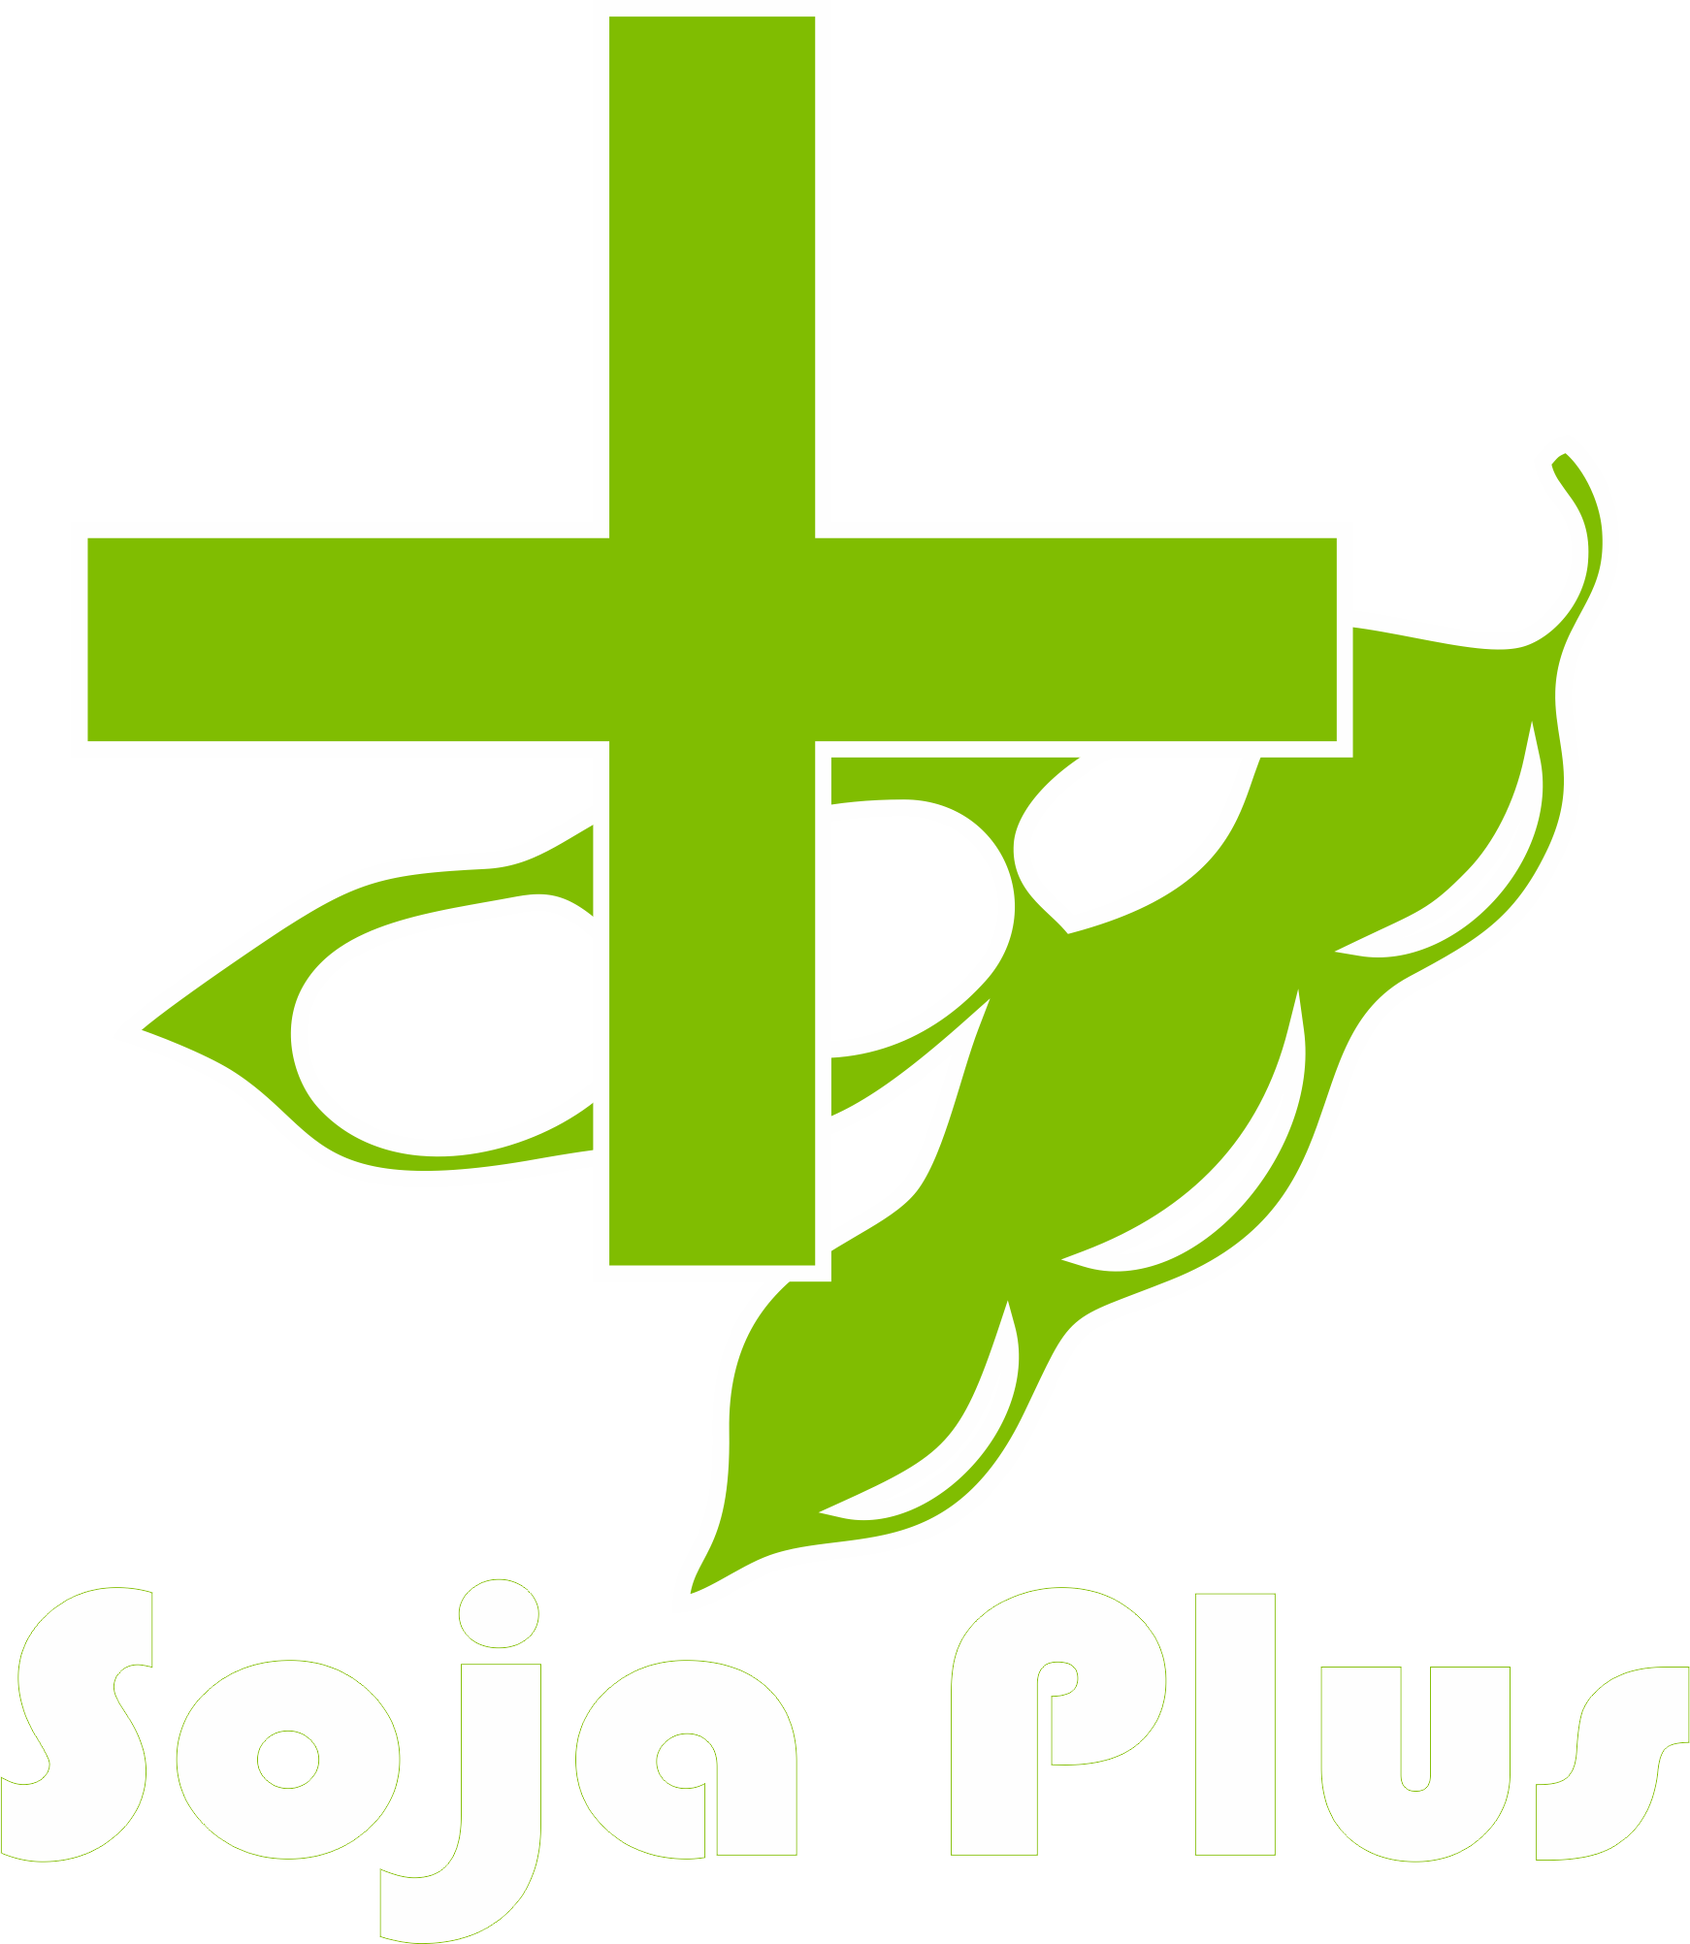
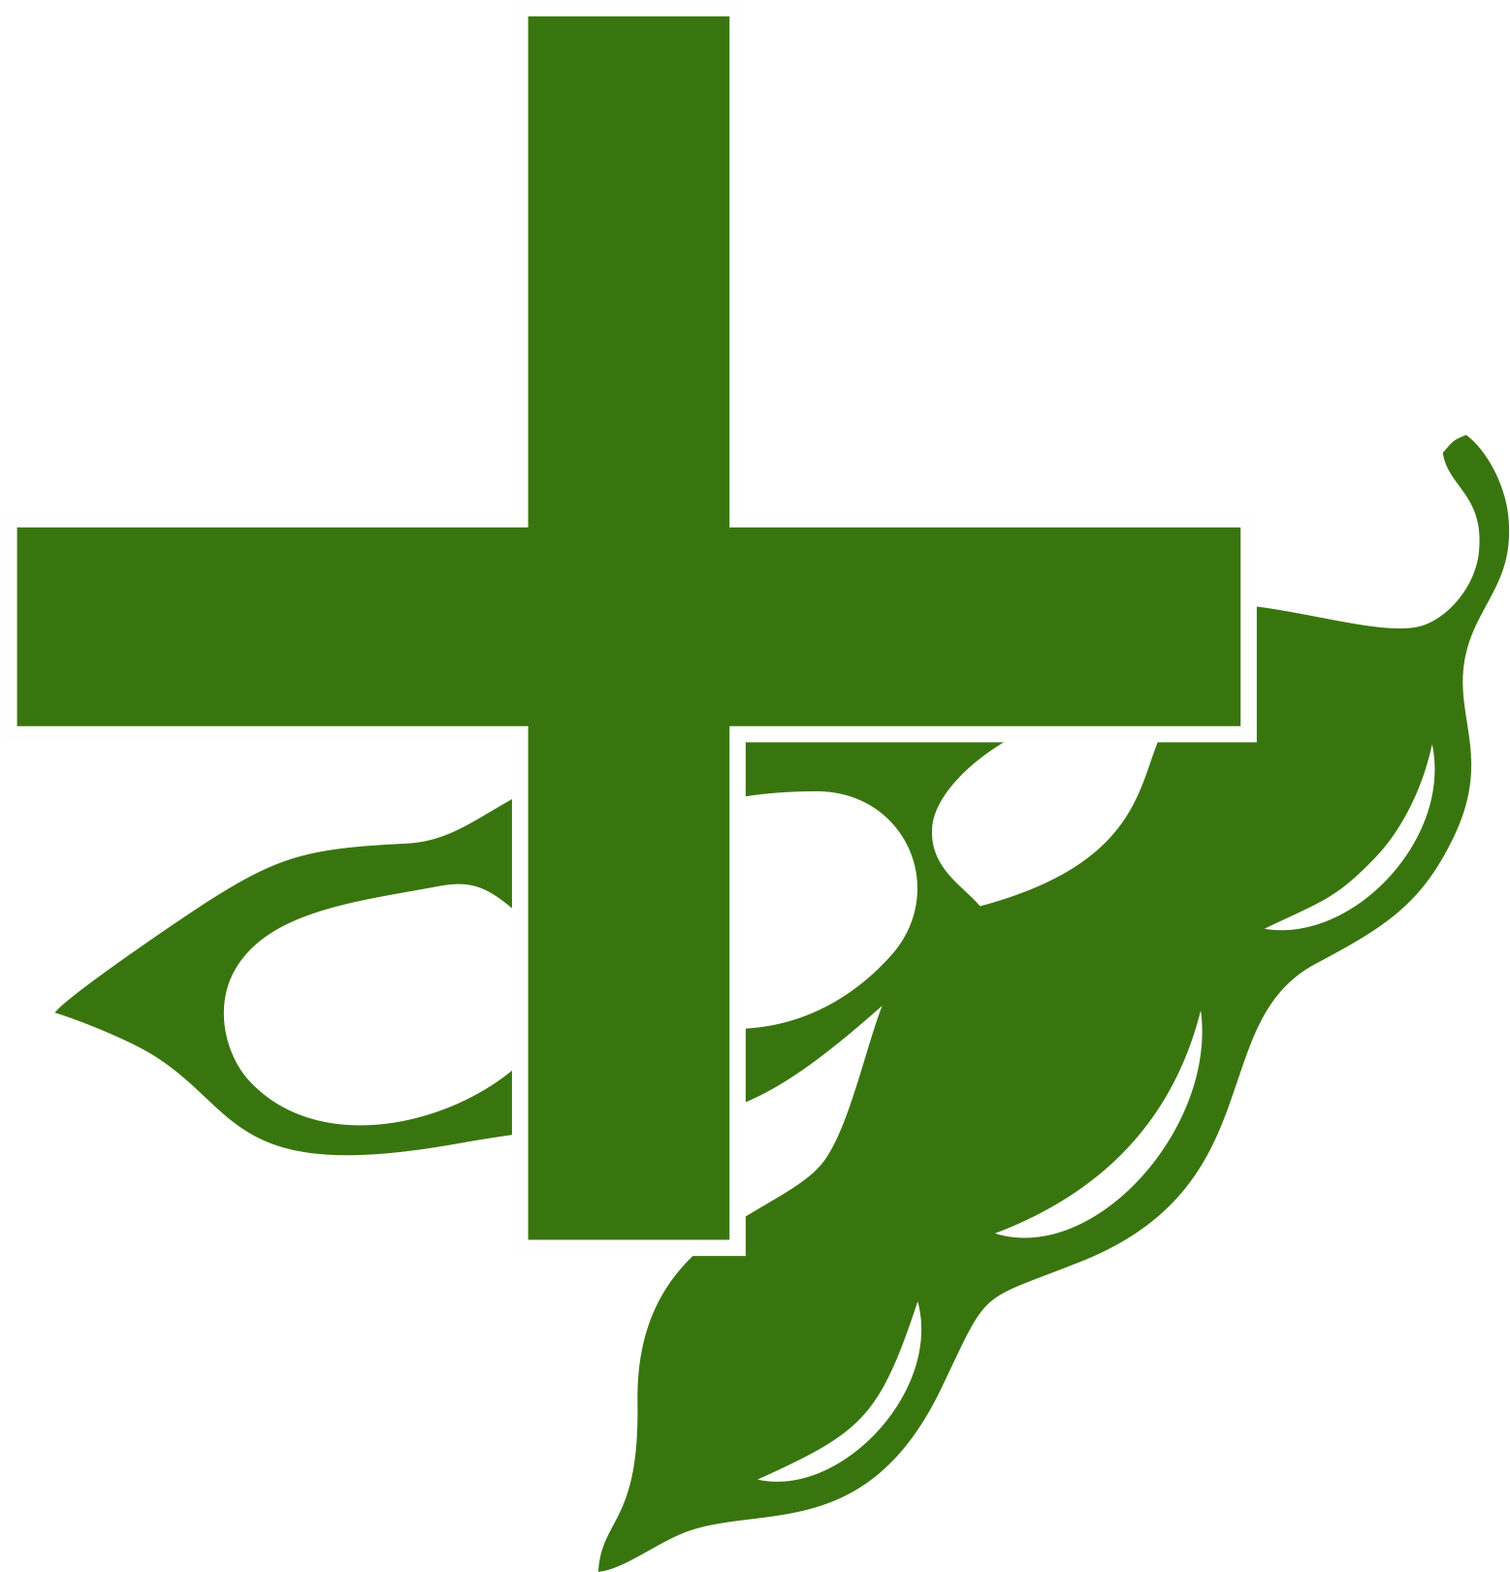
Commit final
Código final do tcc

diff --git a/menu2.html b/menu2.html
@@ -1,14 +1,19 @@
+<style type="text/css">
+  #home{
+    color: white;
+  }
+</style>
 <nav>
     <div class="nav-wrapper light-green darken-4">
-      <a class="brand-logo center"><img src="../img/SojaPlus.png" width="8%"></a>
+      <a class="brand-logo center"><img src="../img/SojaPlus2.png" width="8%"></a>
       <ul id="nav-mobile" class="left hide-on-med-and-down">
       <li>
         	<form action="../actions/logof.php">
-        		<button class="btn-large waves-effect  light-green darken-4" type="submit" name="logof">Logof</button>
+        		<button class="btn-large waves-effect  light-green darken-4" type="submit" name="logof">Logoff</button>
         	</form>
        </li>
        <li>
-       	<a href="../index.php"><i class="large material-icons">home</i></a>
+       	<a href="../index.php"><i class="large material-icons" id="home" >home</i></a>
        </li>
       </ul>
     </div>

diff --git a/menu.html b/menu.html
@@ -1,6 +1,6 @@
 <nav>
     <div class="nav-wrapper light-green darken-4">
-      <a href="#" class="brand-logo center"><img src="img/SojaPlus.png" width="8%"></a>
+      <a href="#" class="brand-logo center"><img src="img/SojaPlus2.png" width="8%"></a>
       <ul id="nav-mobile" class="left hide-on-med-and-down">
         	<form action="actions/logof.php">
         		<button class="btn-large waves-effect  light-green darken-4" type="submit" name="logof">Logoff</button>

diff --git a/actions/includeLavouras.php b/actions/includeLavouras.php
@@ -37,9 +37,14 @@ td{
     
     $id = $_SESSION['idSojaPlusUser'];
 
-    echo "<h4 style='font-size: 35px;'class='header center'>Suas lavouras</h4>";
-    $sql = "SELECT * FROM LAVOURA WHERE idUsuario = '$id';";
+    $sql = "SELECT count(*) FROM LAVOURA WHERE idUsuario = '$id';";
     $pdo = Conexao::getInstance();
+    $consulta = $pdo->query($sql);
+    $linha=$consulta->fetch(PDO::FETCH_BOTH);
+    if ($linha['count(*)']>0) {
+        echo "<h4 style='font-size: 35px;'class='header center'>Suas lavouras</h4>";
+    }
+    $sql = "SELECT * FROM LAVOURA WHERE idUsuario = '$id';";
     $consulta = $pdo->query($sql);
     while($linha = $consulta->fetch(PDO::FETCH_BOTH)){
         echo '<div class="lavoura" align= "center">
@@ -88,7 +93,7 @@ td{
         if ($linhaC!="") {
             echo '<center>'.$linhaC['retorno'].'<br>Correção proposta na data '.$linhaC['data'].'</center><br>';
         }else{
-            echo 'Cadastre seu documento de análise do solo e espere pacientimente';
+            echo 'Cadastre seu documento de análise do solo e espere pacientemente';
         }
 
         echo "</td>";
@@ -101,7 +106,6 @@ td{
         $consulta3 = $pdo3->query($sql3);
         $linha3 = $consulta3->fetch(PDO::FETCH_BOTH);
         if ($linha3!="") {
-            echo '<img src="../img/Estágios da Soja/'.$linha3['estagio'].'.png" height="75px"><br>';
             switch ($linha3['estagio']) {
                 case 'V0':
                     $proxEstagio="V1";
@@ -156,31 +160,47 @@ td{
                 break;
             }
 
-            echo "</td>";
+            
+            if($linha3['estagio']!="F"){
+                echo '<img src="../img/Estágios da Soja/'.$linha3['estagio'].'.png" height="75px"><br>';
+                echo "</td>";
+                echo "<td>";
+                echo '<a href="../actions/passarEstagio.php?idLavoura='.$idLavoura.'&prox='.$proxEstagio.'"><font color="#000000">Avançar estágio</font></a>';
+                echo "</td>";
 
-            echo "<td>";
-            echo '<a href="../actions/passarEstagio.php?idLavoura='.$idLavoura.'&prox='.$proxEstagio.'"><font color="#000000">Avançar estágio</font></a>';
-            echo "</td>";
+                echo "<td>";
+                echo '<a href="../actions/excluir.php?idLavoura='.$idLavoura.'"><font color="#000000">Excluir</font></a>';
+                echo "</td>";
 
-            echo "<td>";
-            echo '<a href="../actions/excluir.php?idLavoura='.$idLavoura.'"><font color="#000000">Excluir</font></a>';
-            echo "</td>";
+                echo "<td>";
+                echo '<a href="../actions/historico.php?idLavoura='.$idLavoura.'"><font color="#000000">Emitir</font></a>';
+                echo "</td>";
 
-            echo "<td>";
-            echo '<a href="../actions/historico.php?idLavoura='.$idLavoura.'"><font color="#000000">Emitir</font></a>';
-            echo "</td>";
+                echo "<td>";
+                echo '<a href="../docAnalise/index.php?idLavoura='.$idLavoura.'"><font color="#000000">Adicionar</font></a>';
+                echo "</td>";
 
-            echo "<td>";
-            echo '<a href="../docAnalise/index.php?idLavoura='.$idLavoura.'"><font color="#000000">Adicionar</font></a>';
-            echo "</td>";
+                $sqlD = "SELECT * FROM DOCANALISE WHERE idLavoura = '".$linha['id']."';";
+                $pdoD = Conexao::getInstance();
+                $consultaD = $pdo->query($sqlD);
+                $linhaD=$consultaD->fetch(PDO::FETCH_BOTH);
 
-            $sqlD = "SELECT * FROM DOCANALISE WHERE idLavoura = '".$linha['id']."';";
-            $pdoD = Conexao::getInstance();
-            $consultaD = $pdo->query($sqlD);
-            $linhaD=$consultaD->fetch(PDO::FETCH_BOTH);
+                if ($linhaD!="") {
+                    echo '</tr></table><br><a href="../produto/index.php?idLavoura='.$idLavoura.'" class="btn purple darken-2">Adicionar Produto</a><br><br>';
+                }
+            }else{
+                echo "Finalizado, pronto para colheita</td>";
+                echo "<td></td>";
 
-            if ($linhaD!="") {
-                echo '</tr></table><br><a href="../produto/index.php?idLavoura='.$idLavoura.'" class="btn purple darken-2">Adicionar Produto</a><br><br>';
+                echo "<td>";
+                echo '<a href="../actions/excluir.php?idLavoura='.$idLavoura.'"><font color="#000000">Excluir</font></a>';
+                echo "</td>";
+
+                echo "<td>";
+                echo '<a href="../actions/historico.php?idLavoura='.$idLavoura.'"><font color="#000000">Emitir</font></a>';
+                echo "</td>";
+
+                echo "<td></td>";
             }
         
             echo "</tr></table>";

diff --git a/Lavoura/cadLavoura.php b/Lavoura/cadLavoura.php
@@ -8,10 +8,11 @@
     }
     ?>
     <meta charset="UTF-8">
-    <title>Cadastro</title>
+    <title>Cadastro Lavoura</title>
     <meta charset="UTF-8">
     <link rel="stylesheet" href="https://cdnjs.cloudflare.com/ajax/libs/materialize/1.0.0/css/materialize.min.css">
-<script src="https://ajax.googleapis.com/ajax/libs/jquery/3.5.1/jquery.min.js"></script>
+    <link rel="shortcut icon" href="../img/SojaPlus.png">
+    <script src="https://ajax.googleapis.com/ajax/libs/jquery/3.5.1/jquery.min.js"></script>
     <script src="https://cdnjs.cloudflare.com/ajax/libs/materialize/1.0.0/js/materialize.min.js"></script>
     <link href="https://fonts.googleapis.com/icon?family=Material+Icons" rel="stylesheet">
 
@@ -32,11 +33,12 @@
 
 
     <style type="text/css">
+    @import url('https://fonts.googleapis.com/css2?family=Open+Sans:wght@300&display=swap');
         body{
             background-image: url("../img/soja-fundo.jpg");
             background-repeat: no-repeat;
             background-size: cover;
-            font-family: "Crimson";
+            font-family: "Open Sans";
             color: white;
             margin-bottom: 0px;
             padding-bottom: 0px;
@@ -71,7 +73,7 @@
             margin-right: 20px;*/
             background-color: rgb(51,105,27);
             font-size: 30px;
-            font-family: "Crimson";
+            font-family: "Open Sans";
         }
         .footer{
             position:absolute;
@@ -168,8 +170,8 @@
             width:100%;">
           <div class="container">
           <div class="footer-copyright">
-            <div class="container">
-            © 2014 Copyright Text
+            <div class="container" align="center">
+            © 2021 Copyright SojaPlus
             <a class="grey-text text-lighten-4 right" href="#!"></a>
             </div>
           </div>

diff --git a/login.php b/login.php
@@ -21,17 +21,19 @@
     <meta name="viewport" content="width=device-width, initial-scale=1.0">
     <link rel="stylesheet" href="https://cdnjs.cloudflare.com/ajax/libs/materialize/1.0.0/css/materialize.min.css">
     <script src="https://cdnjs.cloudflare.com/ajax/libs/materialize/1.0.0/js/materialize.min.js"></script>
+    <link rel="shortcut icon" href="./img/SojaPlus.png">
     <link href="https://fonts.googleapis.com/icon?family=Material+Icons" rel="stylesheet">
     <title>Login de Usuário</title>
     <link rel="stylesheet" type="text/css" href="css-adicional/css.css">
 
     <style type="text/css">
+    @import url('https://fonts.googleapis.com/css2?family=Open+Sans:wght@300&display=swap');
         body{
             background-image: url("img/soja-fundo1.jpg");
             background-repeat: no-repeat;
             background-attachment: fixed;
             background-size: cover;
-            font-family: "Crimson";
+            font-family: "Open Sans";
             color: white;
             display: flex;
             font-size: 80.31%;
@@ -69,7 +71,7 @@
             margin-right: 2.6%;
             background-color: rgb(51,105,27);
             font-size: 3.9%;
-            font-family: "Crimson";
+            font-family: "Open Sans";
         }
         #forms{
             padding-right: 25.62%;
@@ -131,7 +133,7 @@
     <footer class="page-footer light-green darken-4" style="position:absolute;
             bottom:0;
             width:100%;">
-          <div class="container">
+          <div class="container" align="center">
           <div class="footer-copyright">
             <div class="container">
             © 2021 Copyright SojaPlus

diff --git a/Agricultor/index.php b/Agricultor/index.php
@@ -34,15 +34,17 @@
     <meta charset="UTF-8">
     <link rel="stylesheet" href="https://cdnjs.cloudflare.com/ajax/libs/materialize/1.0.0/css/materialize.min.css">
     <script src="https://cdnjs.cloudflare.com/ajax/libs/materialize/1.0.0/js/materialize.min.js"></script>
+    <link rel="shortcut icon" href="../img/SojaPlus.png">
     <link href="https://fonts.googleapis.com/icon?family=Material+Icons" rel="stylesheet">
-    <title>Cadastro</title>
+    <title>Área Agricultor</title>
 
       <style type="text/css">
+      @import url('https://fonts.googleapis.com/css2?family=Open+Sans:wght@300&display=swap');
         body{
             background-image: url("../img/soja-fundo.jpg");
             background-repeat: no-repeat;
             background-size: cover;
-            font-family: "Crimson";
+            font-family: "Open Sans";
             color: white;
             margin-bottom: 0px;
             padding-bottom: 0px;
@@ -79,7 +81,7 @@
             margin-right: 20px;*/
             background-color: rgb(51,105,27);
             font-size: 30px;
-            font-family: "Crimson";
+            font-family: "Open Sans";
         }
         .footer{
             position:absolute;
@@ -166,8 +168,8 @@
 <footer class="page-footer light-green darken-4">
           <div class="container">
           <div class="footer-copyright">
-            <div class="container">
-            © 2014 Copyright Text
+            <div class="container" align="center">
+            © 2021 Copyright SojaPlus
             <a class="grey-text text-lighten-4 right" href="#!"></a>
             </div>
           </div>

diff --git a/cad.php b/cad.php
@@ -10,15 +10,16 @@
     <meta charset="UTF-8">
     <link rel="stylesheet" href="https://cdnjs.cloudflare.com/ajax/libs/materialize/1.0.0/css/materialize.min.css">
     <script src="https://cdnjs.cloudflare.com/ajax/libs/materialize/1.0.0/js/materialize.min.js"></script>
+    <link rel="shortcut icon" href="./img/SojaPlus.png">
     <link href="https://fonts.googleapis.com/icon?family=Material+Icons" rel="stylesheet">
     <title>Cadastro</title>
-
       <style type="text/css">
+        @import url('https://fonts.googleapis.com/css2?family=Open+Sans:wght@300&display=swap');
         body{
             background-image: url("img/soja-fundo.jpg");
             background-repeat: no-repeat;
             background-size: cover;
-            font-family: "Crimson";
+            font-family: "Open Sans";
             color: white;
             margin-bottom: 0px;
             padding-bottom: 0px;
@@ -55,7 +56,7 @@
             margin-right: 20px;*/
             background-color: rgb(51,105,27);
             font-size: 30px;
-            font-family: "Crimson";
+            font-family: "Open Sans";
         }
         .footer{
             position:absolute;
@@ -185,8 +186,8 @@
         <footer class="page-footer light-green darken-4">
           <div class="container">
           <div class="footer-copyright">
-            <div class="container">
-            © 2014 Copyright Text
+            <div class="container" align="center">
+            © 2021 Copyright SojaPlus
             <a class="grey-text text-lighten-4 right" href="#!"></a>
             </div>
           </div>

diff --git a/actions/historico.php b/actions/historico.php
@@ -3,7 +3,8 @@
 <head>
   <meta http-equiv="Content-Type" content="text/html; charset=UTF-8"/>
   <meta name="viewport" content="width=device-width, initial-scale=1"/>
-  <title></title>
+  <title>Histórico</title>
+  <link rel="shortcut icon" href="../img/SojaPlus.png">
   <!-- CSS  -->
   <link href="https://fonts.googleapis.com/icon?family=Material+Icons" rel="stylesheet">
   <link href="../css/materialize.css" type="text/css" rel="stylesheet" media="screen,projection"/>
@@ -137,9 +138,8 @@
                             }elseif($linha['dados']=="Correção cadastrada"){
                                 $sqlS = "SELECT * FROM CORRECAO WHERE idLavoura = '$idLavoura' AND `DATA` = '$data'";
                                 $consultaS = $pdo->query($sqlS);
-                                while($subLinha=$consultaS->fetch(PDO::FETCH_BOTH)){
+                                $subLinha=$consultaS->fetch(PDO::FETCH_BOTH);
                                   echo "<blockquote>".$subLinha['retorno']."</blockquote><br><br>";
-                                }
                             }elseif($linha['dados']=="Adicionados produtos à lavoura"){
                                 $sqlS = "SELECT * FROM PRODUTOSQUIMICOS WHERE idLavoura = '$idLavoura' AND `DATA` = '$data'";
                                 $consultaS = $pdo->query($sqlS);

diff --git a/docAnalise/index.php b/docAnalise/index.php
@@ -9,10 +9,11 @@
     $_SESSION['idLavoura']=$_GET['idLavoura'];
     ?>
     <meta charset="UTF-8">
-    <title>Cadastro</title>
+    <title>Cadastro Documento</title>
     <meta charset="UTF-8">
     <link rel="stylesheet" href="https://cdnjs.cloudflare.com/ajax/libs/materialize/1.0.0/css/materialize.min.css">
-<script src="https://ajax.googleapis.com/ajax/libs/jquery/3.5.1/jquery.min.js"></script>
+    <link rel="shortcut icon" href="./img/SojaPlus.png">
+    <script src="https://ajax.googleapis.com/ajax/libs/jquery/3.5.1/jquery.min.js"></script>
     <script src="https://cdnjs.cloudflare.com/ajax/libs/materialize/1.0.0/js/materialize.min.js"></script>
     <link href="https://fonts.googleapis.com/icon?family=Material+Icons" rel="stylesheet">
 

diff --git a/actions/excluirUsuarioDiario.php b/actions/excluirUsuarioDiario.php
@@ -39,6 +39,11 @@
             $stmt = $pdo->prepare('DELETE FROM CORRECAO WHERE idLavoura = :idLavoura;');
             $stmt->bindParam(":idLavoura", $idLavoura, PDO::PARAM_STR);
             $stmt->execute();
+
+            $pdo = Conexao::getInstance();
+            $stmt = $pdo->prepare('DELETE FROM RECEITA WHERE idLavoura = :idLavoura;');
+            $stmt->bindParam(":idLavoura", $idLavoura, PDO::PARAM_STR);
+            $stmt->execute();
             
             $pdo = Conexao::getInstance();
             $stmt = $pdo->prepare('DELETE FROM DOCANALISE WHERE idLavoura = :idLavoura;');

diff --git a/Lavoura/index.php b/Lavoura/index.php
@@ -3,8 +3,9 @@
 <head>
   <meta http-equiv="Content-Type" content="text/html; charset=UTF-8"/>
   <meta name="viewport" content="width=device-width, initial-scale=1"/>
-  <title></title>
+  <title>Área Soja</title>
   <!-- CSS  -->
+  <link rel="shortcut icon" href="../img/SojaPlus.png">
   <link href="https://fonts.googleapis.com/icon?family=Material+Icons" rel="stylesheet">
   <link href="../css/materialize.css" type="text/css" rel="stylesheet" media="screen,projection"/>
   <link href="../css/style.css" type="text/css" rel="stylesheet" media="screen,projection"/>

diff --git a/produto/index.php b/produto/index.php
@@ -9,8 +9,9 @@
     $_SESSION['idLavoura']=$_GET['idLavoura'];
     ?>
     <meta charset="UTF-8">
-    <title>Cadastro</title>
+    <title>Cadastro de Produto</title>
     <meta charset="UTF-8">
+    <link rel="shortcut icon" href="../img/SojaPlus.png">
     <link rel="stylesheet" href="https://cdnjs.cloudflare.com/ajax/libs/materialize/1.0.0/css/materialize.min.css">
 <script src="https://ajax.googleapis.com/ajax/libs/jquery/3.5.1/jquery.min.js"></script>
     <script src="https://cdnjs.cloudflare.com/ajax/libs/materialize/1.0.0/js/materialize.min.js"></script>
